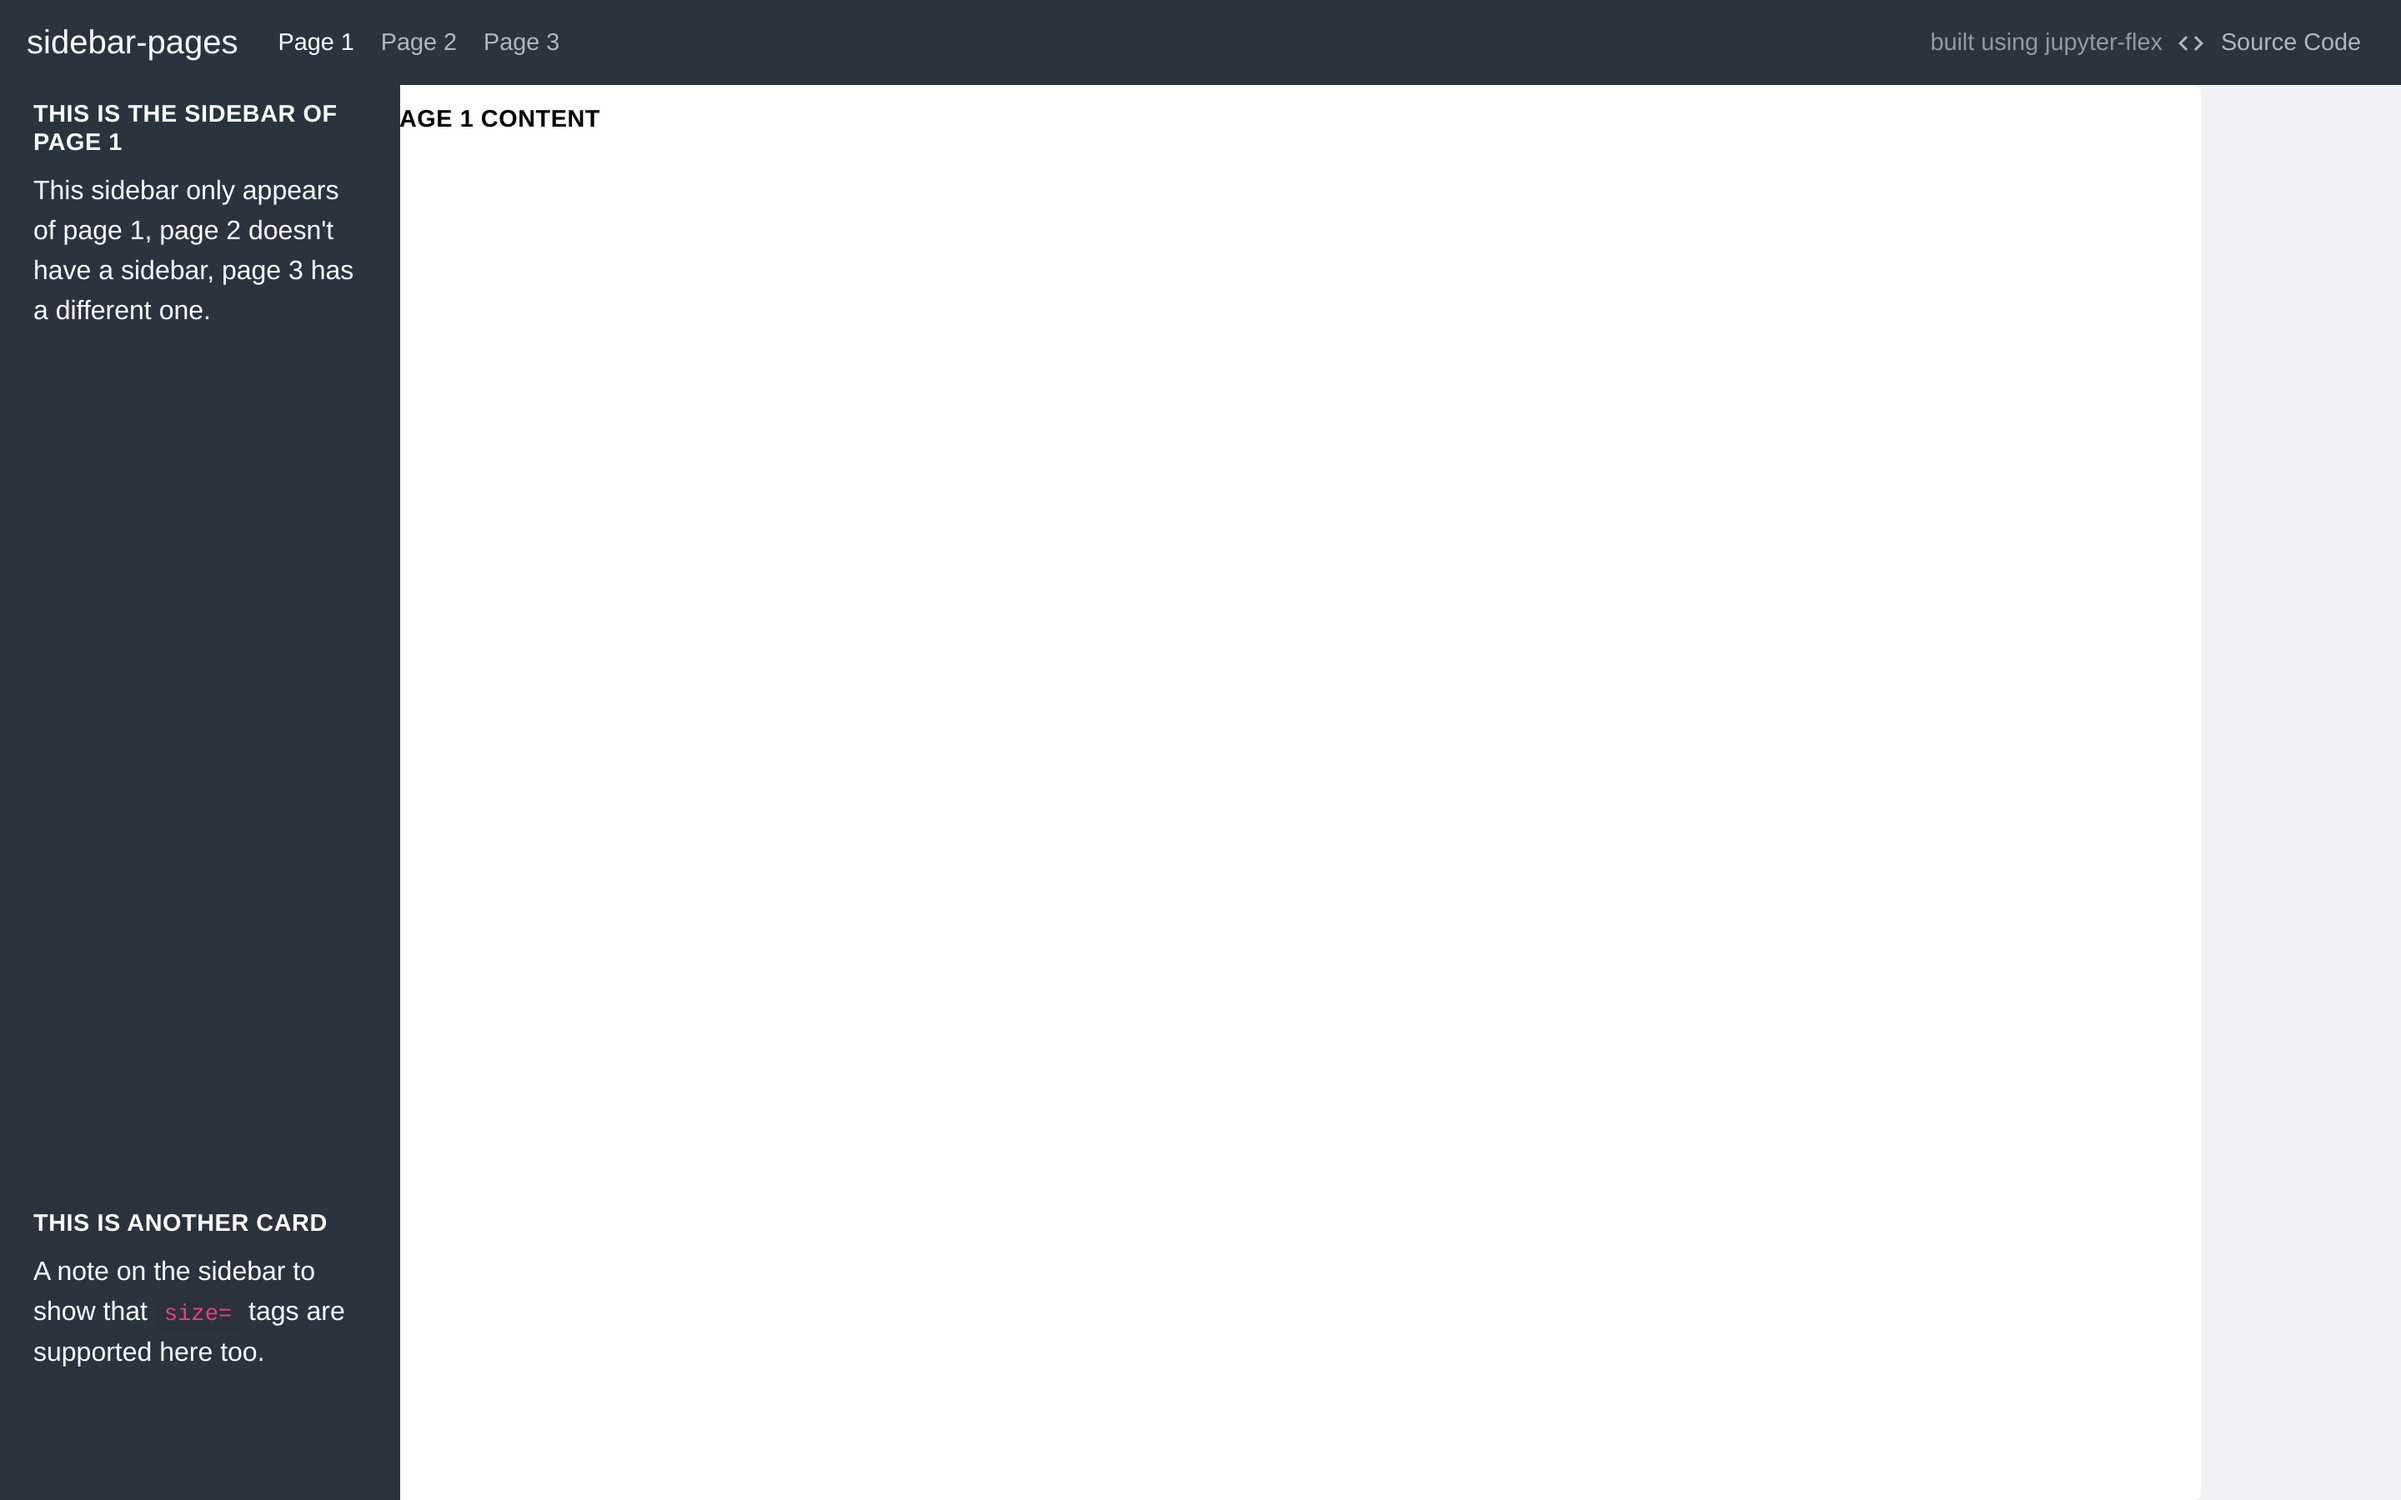
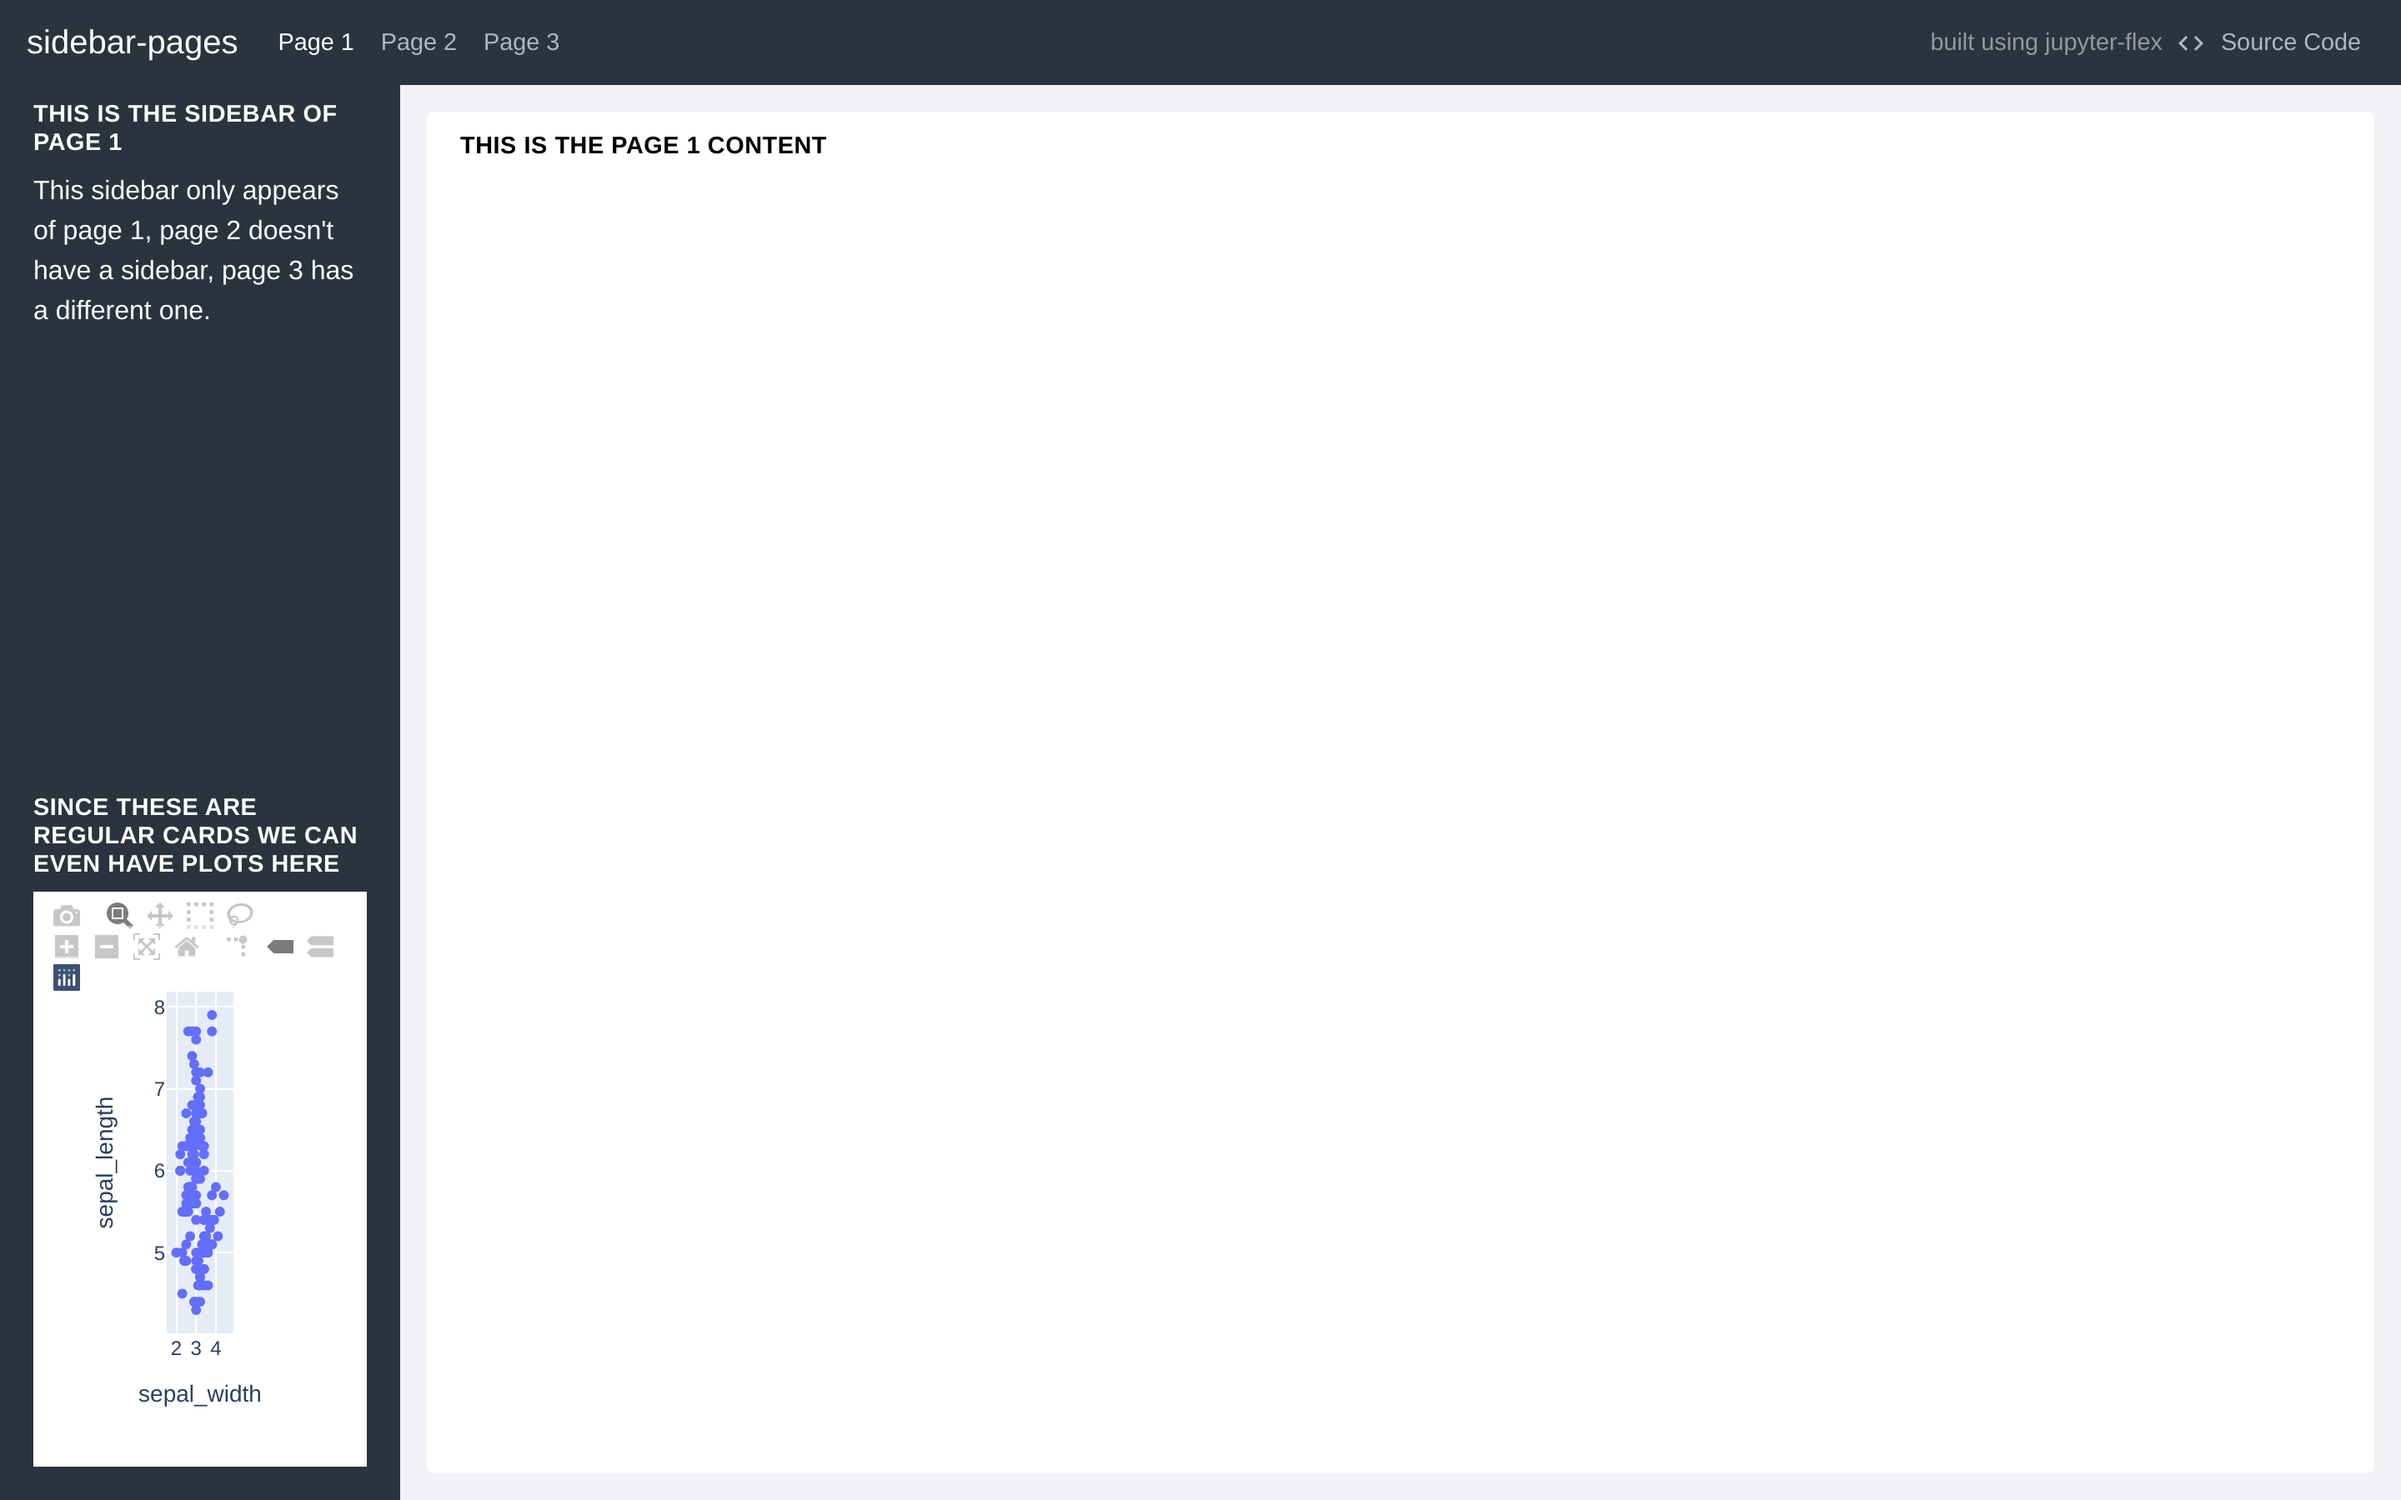
Fix pages sidebar

Changed region(s): [[0.0, 0.5289, 0.1562, 0.9956], [0.1562, 0.0622, 0.3438, 0.1244]]

diff --git a/js/src/components/Dashboard/style.scss b/js/src/components/Dashboard/style.scss
@@ -20,24 +20,21 @@ body {
         height: calc(100% - 51px);
         padding: 0;
 
-        .page-wrapper {
+        .page {
             height: 100%;
-            .page {
+            .section-wrapper {
                 height: 100%;
-                .section-wrapper {
+                .section {
                     height: 100%;
-                    .section {
+                    .card {
                         height: 100%;
-                        .card {
+                        .card-body {
                             height: 100%;
-                            .card-body {
+                            flex: 1 1 0;
+                            .output_wrapper {
                                 height: 100%;
-                                flex: 1 1 0;
-                                .output_wrapper {
+                                .output {
                                     height: 100%;
-                                    .output {
-                                        height: 100%;
-                                    }
                                 }
                             }
                         }

diff --git a/js/src/components/Page/index.js b/js/src/components/Page/index.js
@@ -75,13 +75,15 @@ class Page extends React.Component {
 
         return (
             <Fragment>
-                {sidebar}
-                <div className={`page ${this.state.classNames}`}>
+                <div
+                    className={`page container-fluid ${this.state.classNames}`}
+                >
+                    {sidebar}
                     <div
                         className={
                             sidebar
-                                ? `section-wrapper container-fluid d-flex flex-${flexDirection} col-md-9 ml-sm-auto col-lg-10 p-0`
-                                : `section-wrapper container-fluid d-flex flex-${flexDirection}`
+                                ? `section-wrapper d-flex flex-${flexDirection} col-md-9 ml-sm-auto col-lg-10`
+                                : `section-wrapper d-flex flex-${flexDirection}`
                         }
                     >
                         {sectionComponents}

diff --git a/js/src/components/Dashboard/index.js b/js/src/components/Dashboard/index.js
@@ -155,13 +155,11 @@ class Dashboard extends React.Component {
                         <div
                             className={
                                 sidebar
-                                    ? "page-wrapper col-md-9 ml-sm-auto col-lg-10 p-0"
-                                    : "page-wrapper"
+                                    ? "col-md-9 ml-sm-auto col-lg-10 p-0"
+                                    : ""
                             }
                         >
-                            {/* <Provider value={this.state}> */}
                             <Switch>{routeComponents}</Switch>
-                            {/* </Provider> */}
                         </div>
                     </main>
                 </div>

diff --git a/js/src/components/Sidebar/index.js b/js/src/components/Sidebar/index.js
@@ -27,7 +27,7 @@ class Sidebar extends React.Component {
         }
 
         return (
-            <div className="global-sidebar col-md-2">
+            <div className="sidebar col-md-2">
                 <div className="d-flex flex-column section">
                     {cardComponents}
                 </div>

diff --git a/js/src/components/Sidebar/style.scss b/js/src/components/Sidebar/style.scss
@@ -1,6 +1,6 @@
 @import "../variables.scss";
 
-.global-sidebar {
+.sidebar {
     background-color: $dark-bg !important;
     color: #fff;
     position: fixed;
